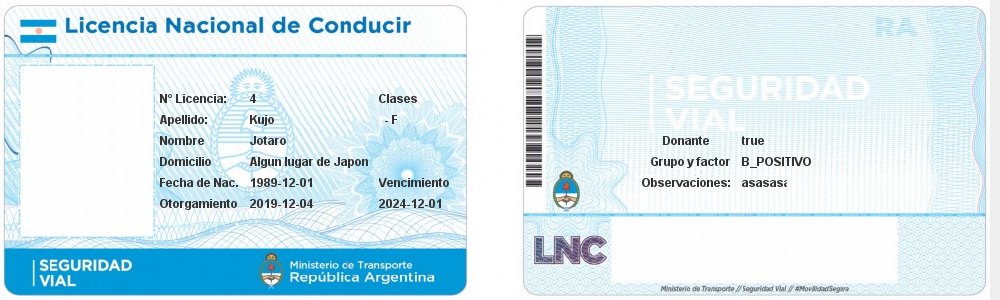
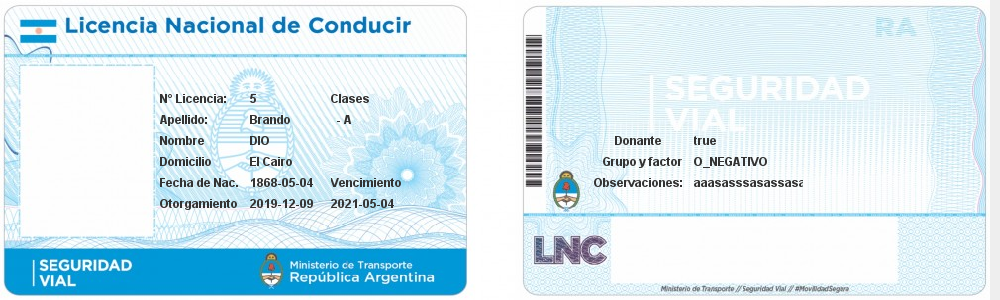
Luego de renovar licencia se muestra el carnet para imprimirlo

diff --git a/src/main/java/Interfaces/Interfaz_Renovar_Licencia.java b/src/main/java/Interfaces/Interfaz_Renovar_Licencia.java
@@ -1,5 +1,6 @@
 package Interfaces;
 
+import LogicaDeNegocios.DTOs.CarnetDTO;
 import LogicaDeNegocios.DTOs.CriteriosDTO;
 import LogicaDeNegocios.DTOs.DatosTablaDTO;
 import LogicaDeNegocios.DTOs.LicenciaDTO;
@@ -7,6 +8,7 @@ import LogicaDeNegocios.Enumerations.ClaseLicencia;
 import LogicaDeNegocios.Exceptions.ExcepcionRenovarLicencia;
 import com.toedter.calendar.JDateChooser;
 import gestores.GestorLicencia;
+import gestores.GestorTitular;
 
 import javax.swing.*;
 import javax.swing.table.DefaultTableModel;
@@ -266,8 +268,18 @@ public class Interfaz_Renovar_Licencia {
             @Override
             public void actionPerformed(ActionEvent actionEvent) {
                 try {
-                    GestorLicencia.renovarLicencia(modeloLicencias.getIdLicencia(table_resultados.getSelectedRow()));
-                    JOptionPane.showMessageDialog(frame, "Licencia reovada con exito.", "Exito al renovar la licencia", JOptionPane.INFORMATION_MESSAGE);
+                    LicenciaDTO licenciaDTO = new LicenciaDTO();
+                    GestorLicencia.renovarLicencia(modeloLicencias.getIdLicencia(table_resultados.getSelectedRow()),licenciaDTO);
+
+                    CarnetDTO carnetDTO = GestorLicencia.buscarCarnetDTO(licenciaDTO.getIdLicencia());
+                    carnetDTO.setComprobante(licenciaDTO.getComprobante());
+                    ArrayList listaCarnetImprimir = new ArrayList<CarnetDTO>();
+                    listaCarnetImprimir.add(carnetDTO);
+
+
+                    JOptionPane.showMessageDialog(frame, "Licencia renovada con exito.", "Exito al renovar la licencia", JOptionPane.INFORMATION_MESSAGE);
+
+                    frame.cambiarPanelConLicencias(MainFrame.PANE_VER_FORMATO_LICENCIA, listaCarnetImprimir);
 
                 } catch (ExcepcionRenovarLicencia e) {
                     JOptionPane.showMessageDialog(frame, e.getMessage(), "Error al renovar licencia", JOptionPane.ERROR_MESSAGE);

diff --git a/src/main/java/gestores/GestorLicencia.java b/src/main/java/gestores/GestorLicencia.java
@@ -253,8 +253,9 @@ public abstract class GestorLicencia {
     }
 
     //historia renovar licencia
-    public static void renovarLicencia(Long idLicencia) throws ExcepcionRenovarLicencia {
+    public static void renovarLicencia(Long idLicencia, LicenciaDTO licenciaDTO) throws ExcepcionRenovarLicencia {
         Licencia licenciaBuscada = GestorBD.buscarLicencia(idLicencia);
+
         if (licenciaBuscada == null) {
             //no se encontro la licencia con ese id en la base de datos
             throw new ExcepcionRenovarLicencia("No se encontro la licencia, consulte con el encargado de la base de datos.");
@@ -273,7 +274,7 @@ public abstract class GestorLicencia {
             //cambiamos el estado a no vigente
             CambioEstadoLicencia ultimoEstado = new CambioEstadoLicencia(null,licenciaBuscada.getIdLicencia(),estadoAnterior.getEstadoNuevo(),EstadoLicencia.NO_VIGENTE,LocalDateTime.now(),GestorUsuario.getUsuario(),licenciaBuscada.getObservacionesLicencia(),licenciaBuscada);
             licenciaBuscada.getCambioEstadoLicencias().add(ultimoEstado);
-            if (GestorBD.guardarLicencia(licenciaRenovada)) {
+            if (GestorBD.guardarLicencia2(licenciaRenovada, licenciaDTO)) {
                 // termina bien
                 return ;
             } else {
